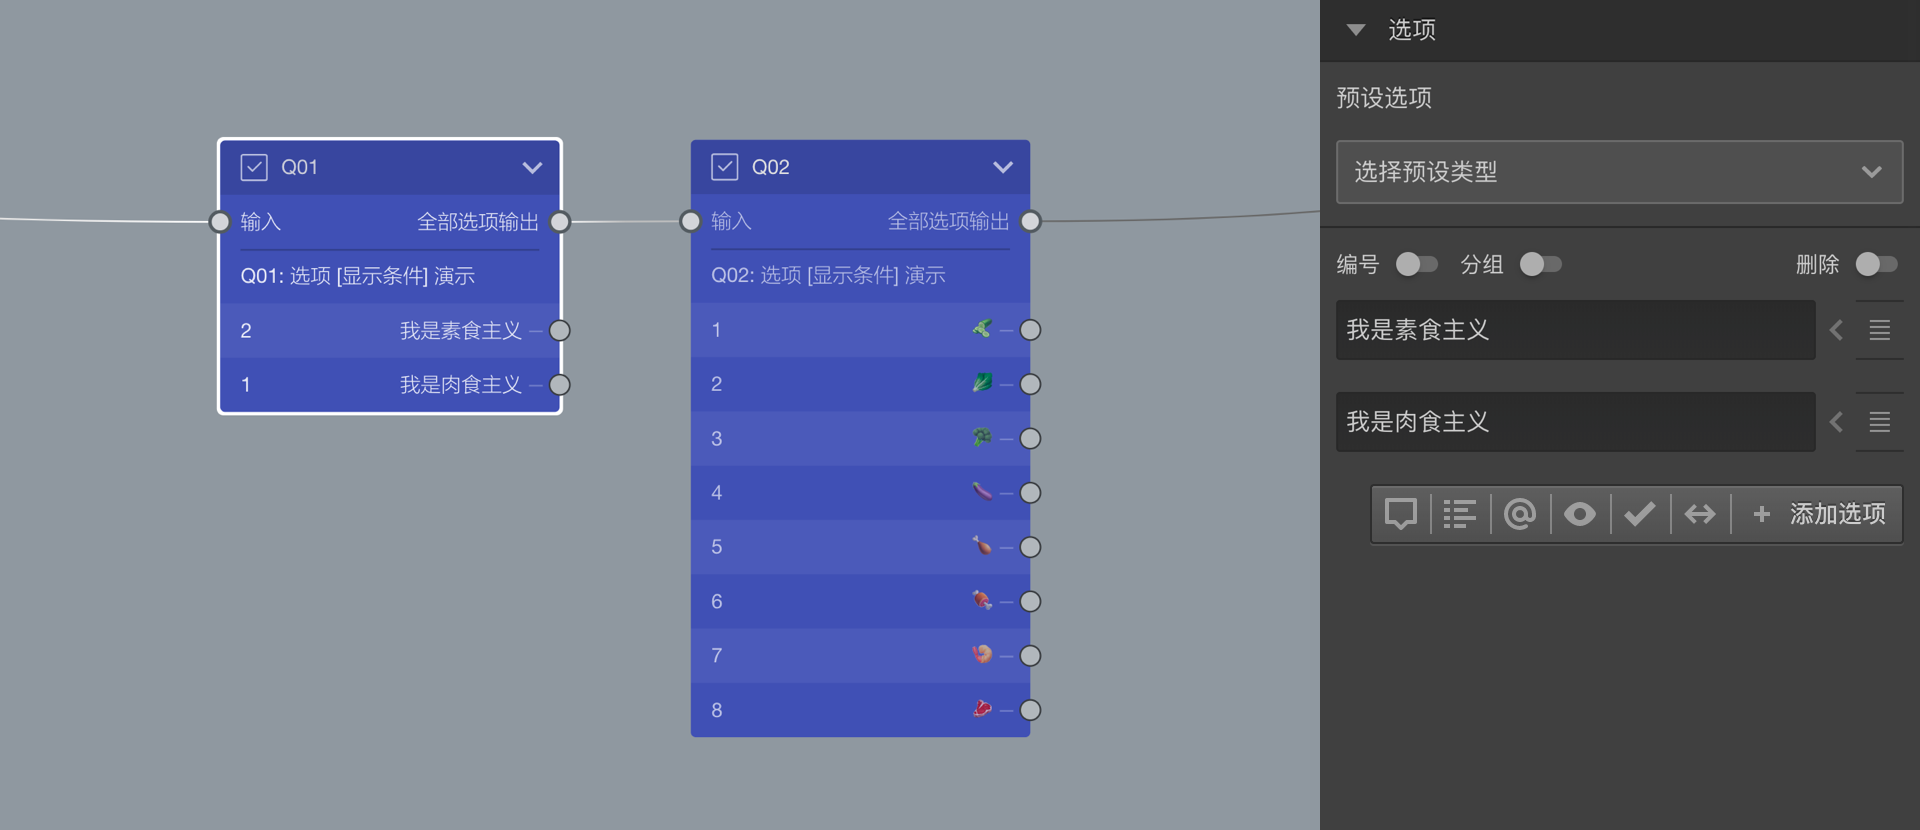
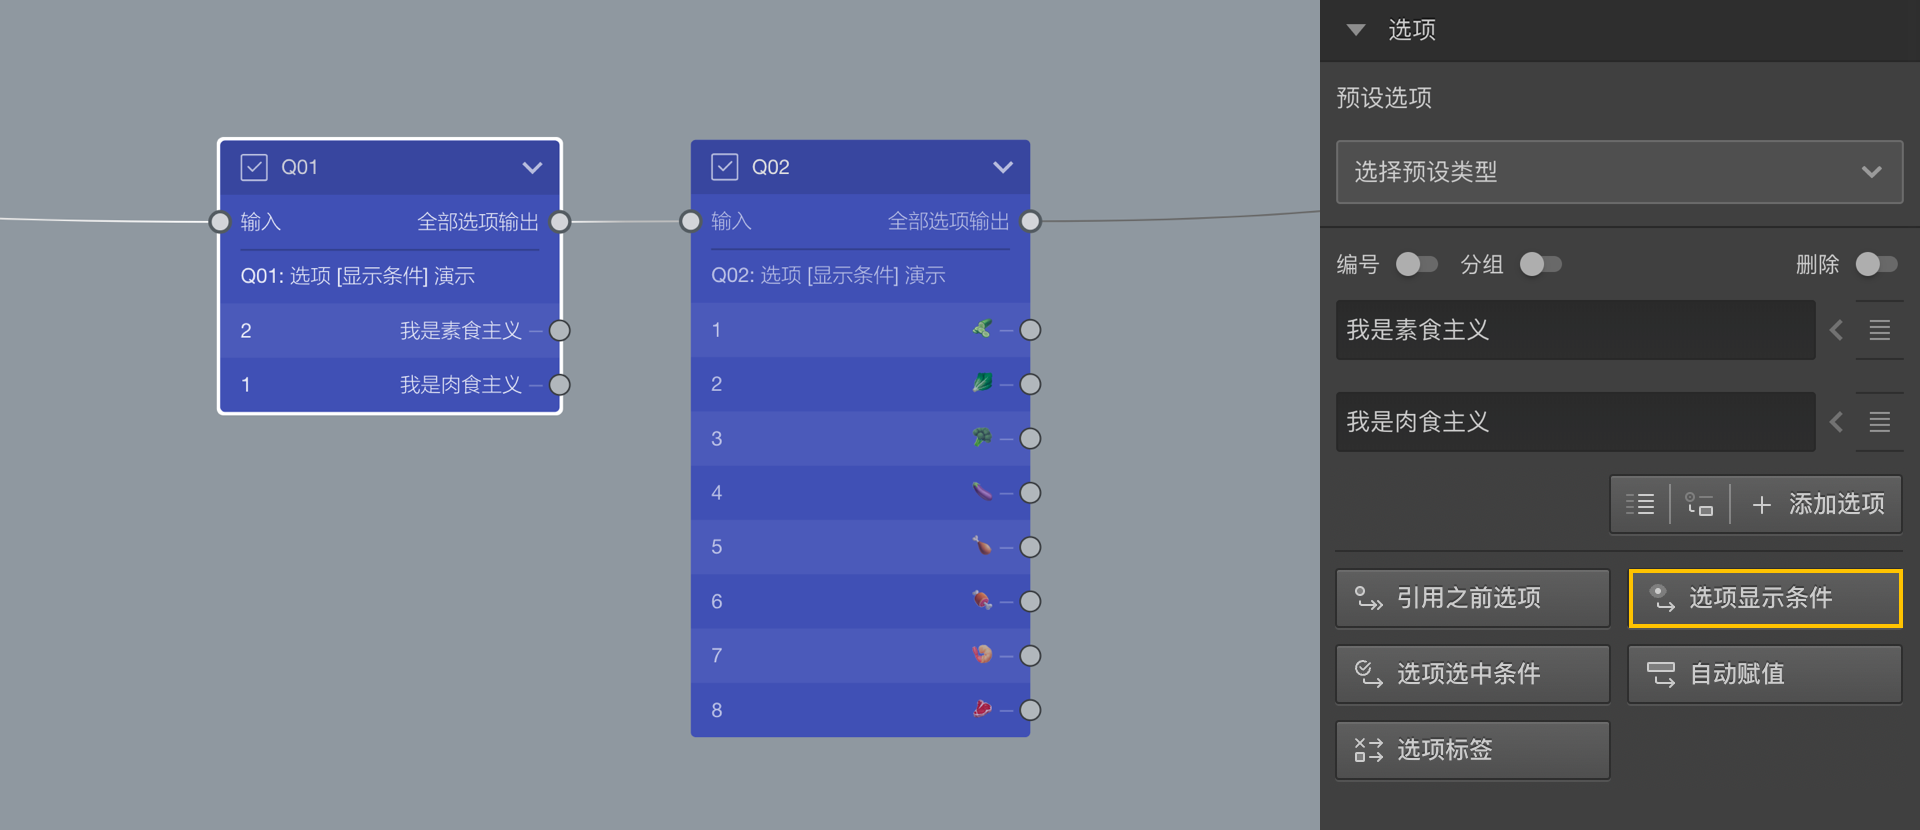
docs: update some option setting related terms and images

Changed region(s): [[0.6875, 0.6627, 1.0, 0.9337], [0.7188, 0.5723, 1.0, 0.6325]]

diff --git a/doc/zh-cn/11nodeSettings/04optionAdvancedSetting/04autoAssignment.md b/doc/zh-cn/11nodeSettings/04optionAdvancedSetting/04autoAssignment.md
@@ -13,7 +13,7 @@
 
 # 自动赋值
 
-仅针对输入类型的题目有效，点击后弹出==选项自动填充==窗口，在其中进行设置。
+仅针对输入类型的题目有效，点击`自动赋值`按钮后弹出==选项自动填充==窗口，在其中进行设置。
 
 ## 选项自动赋值逻辑控制
 
@@ -27,8 +27,10 @@
 
 ## 数据埋点
 
-在问卷设计中，自动功能常用于==数据埋点==，常见是一个填空题，为其选项设置自动赋值的内容，一般情况下这个内容是个变量，变量的内容是在之前题目的回复内容上结合某些算法计算后得出。随后，设置为[替身节点](../../15advancedOptionSetting/02substitute.md)模式，这样就完成了数据埋点。
+在问卷设计中，自动赋值功能常用于==数据埋点==，常见是一个填空题，为其选项设置自动赋值的内容，一般情况下这个内容是个变量，变量的内容是在之前题目的回复内容上结合某些算法计算后得出。随后，设置为[替身节点](../../15advancedOptionSetting/02substitute.md)模式，这样就完成了数据埋点。
 
 答题过程中该题不会显示，但是它的选项会被自动赋值，并且当作答案提交。数据埋点有多种灵活的运用，比如对数据进行标签化处理，埋点后的数据在分析时候更为便捷。
 
 > ==数据埋点==过程中被自动赋值的内容，在后续问题题目中也可以通过变量被继续使用。
+
+> 自动赋值经常和隐藏题一起使用

diff --git a/doc/zh-cn/11nodeSettings/04optionAdvancedSetting/03selectedCondition.md b/doc/zh-cn/11nodeSettings/04optionAdvancedSetting/03selectedCondition.md
@@ -21,7 +21,7 @@
 
 <img src='../assets/04optionAdvancedSetting/03selectedCondition/node-Q01.png'>
 
-点击==高级设置==按钮后，弹出==选项选中逻辑设置==窗口，在其中进行设置。
+点击==选项选中条件==按钮后，弹出==选项选中逻辑设置==窗口，在其中进行设置。
 
 <img src='../assets/04optionAdvancedSetting/03selectedCondition/node-Q02.png'>
 
@@ -38,3 +38,7 @@
 + 点击==>==按钮，在==逻辑运算选项==中加入该判断；
 
 设定完毕后，当被访者在Q01中选择肉食时，Q02的肉食食材选项就只会被自动勾选。在这个基础上，被访者可以选择更多选项，或者去掉自动勾选项。
+
+如果把Q02设置为隐藏题，则Q02不会显示，相当于系统根据选项选中设置，自动勾选后指定选项后，不会让用户更改。
+
+> 自动选中经常和隐藏题一起使用

diff --git a/doc/zh-cn/11nodeSettings/04optionAdvancedSetting/05propertyMap.md b/doc/zh-cn/11nodeSettings/04optionAdvancedSetting/05propertyMap.md
@@ -13,7 +13,7 @@
 
 # 映射属性
 
-设定选项的映射数据，点击后弹出==选项映射==窗口，在其中进行设置。
+设定选项的映射数据，点击`选项标签`后弹出==选项映射==窗口，在其中进行设置。
 
 <img src='../assets/04optionAdvancedSetting/05propertyMap/choices-mapping.png'>
 
@@ -25,10 +25,11 @@
 
 为==选项==设定==映射数据==，==映射数据==可以通过变量引用的方式在后续问卷题目中使用。
 
-## 重置编号
-
-重新设置==选项编号==。
 
 ## 添加和删除字段
 
-添加或删除映射数据字段。
+添加或删除自定义映射数据字段，支持数值，字符，图片三种类型的字段，当前最多支持添加6个自定义的字段
+
+## 其他操作
++ 可以拖拽更改每一列的宽度
++ 可以像Excel一样多选网格复制和粘贴，拖拽赋值，

diff --git a/doc/zh-cn/11nodeSettings/04optionAdvancedSetting/01optionReference.md b/doc/zh-cn/11nodeSettings/04optionAdvancedSetting/01optionReference.md
@@ -27,7 +27,7 @@
 
 <img src='../assets/04optionAdvancedSetting/01optionReference/node-Q02.png'>
 
-点击后打开`变量选择器`配置选项引用，下图是选择"Q01/已选中的选项/选项文字"后的效果，Q02的选项引用Q01中已选中选项的文字内容：
+点击`引用之前选项`后打开`变量选择器`配置选项引用，下图是选择"Q01/已选中的选项/选项文字"后的效果，Q02的选项引用Q01中已选中选项的文字内容：
 
 <img src='../assets/04optionAdvancedSetting/01optionReference/text.png'>
 

diff --git a/doc/zh-cn/11nodeSettings/04optionAdvancedSetting/02displayCondition.md b/doc/zh-cn/11nodeSettings/04optionAdvancedSetting/02displayCondition.md
@@ -17,7 +17,7 @@
 
 <img src='../assets/04optionAdvancedSetting/02displayCondition/node-Q02.png'>
 
-点击后弹出==选项显示逻辑设置==窗口，在其中进行设置。
+点击`选项显示条件`后弹出==选项显示逻辑设置==窗口，在其中进行设置。
 
 下图中，Q01是一道选择题，被访者可从素食或肉食中选择一个，Q02是在Q01基础上进一步呢询问具体吃一些什么，很明显，素食和肉食者看到的内容是完全不同的。
 
